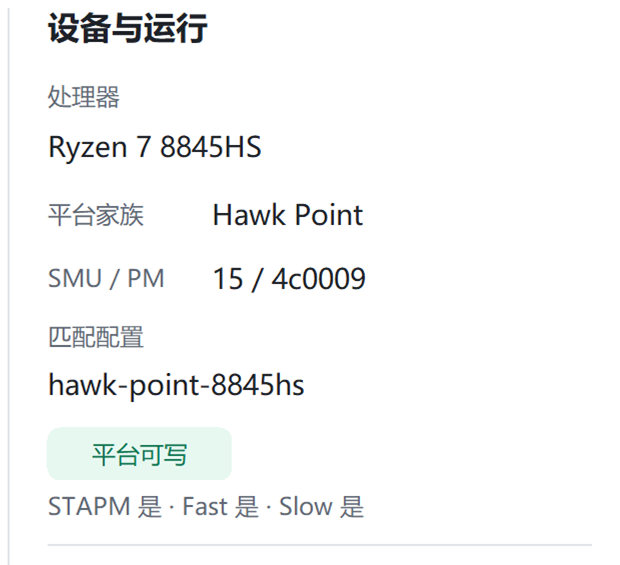
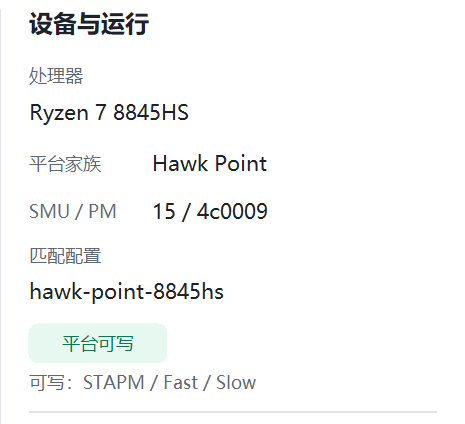
docs: 1.0.28 门禁、部署与 v9 实机截图

diff --git a/docs/DEV_STATUS.md b/docs/DEV_STATUS.md
@@ -21,7 +21,34 @@ not authoritative.
 
 ## Latest Maintenance Milestone
 
-2026-11-14 (tray unlock, real-UI promo v8, and 8 W night setting):
+2026-11-14 (1.0.28-native shipped to the stable-local deployment):
+
+- Added the tray-menu write gate: `写入解锁…` opens the same consent dialog as
+  the header lock, `写入已解锁` is checked while writes are enabled, and
+  selecting it again relocks and restarts the worker read-only.
+- Replaced the awkward advanced-panel capability sentence
+  `STAPM 是 · Fast 是 · Slow 是` with `可写：STAPM / Fast / Slow` (or the
+  subset actually supported), and added a unit test covering full, partial,
+  and unsupported field sets.
+- Verified 24 library tests, 23 main tests, and Clippy with `-D warnings`.
+  The full release gate passed: clean package, shell integration, worker-hang
+  recovery, no-change battery policy, 100/125/150% DPI, 1366x768 at 200%
+  work area, maximize-scroll regression, and byte-identical reproducibility.
+- Package: `1.0.28`, 769,919 bytes, SHA256
[1 lines of base64/hex data omitted]
+  source commit `f64812e6fb873ef72df81e8b324f2172d51aa506`; gate evidence
+  `docs/evidence/packaging/v1.0.28-release-gate-2026-11-14.json`.
+- Promoted to `C:\RyzenAdj`. Previous stable
+  `1.0.27-native` is recoverable at
+  `C:\RyzenAdj.before-20261114-025845`; deployed GUI SHA256
[1 lines of base64/hex data omitted]
+  The desktop shortcut remains
+  `--simple-mode --max-target-watts 45`.
+- Fresh 1.0.28 launch on battery reports `8.00 / 8.00 / 8.00 W`, policy
+  enabled, write unlock persisted, presets `10 / 25 / 45 W`, and no firmware
+  clamp. The temporary night setting remains 8 W until 07:00.
+
+2026-11-14 (tray unlock, real-UI promo v9, and 8 W night setting):
 
 - Tray menu now exposes the same write gate as the header lock: `写入解锁…`
   opens the consent dialog and `写入已解锁` is checked while writes are
@@ -33,16 +60,16 @@ not authoritative.
   for policy-seeded captures, and uses a PowerShell 5.1-safe `UIntPtr` for
   the cleanup exit message. This lets the promo capture the real
   `10 W / 45 W` auto-policy state instead of a hand-built mock.
-- Promo v8 replaces the safety, auto-policy, and compatibility mock cards
-  with crops from the shipped 1.0.27 UI: the real consent dialog (checked
+- Promo v9 replaces the safety, auto-policy, and compatibility mock cards
+  with crops from the shipped 1.0.28 UI: the real consent dialog (checked
   state), the real advanced preset + policy panel (`10 / 25 / 45 W`,
   battery `10 W`, AC `45 W`, `已启用`), and the real device panel
-  (`Ryzen 7 8845HS`, `Hawk Point`, `平台可写`). The main preset scene still
-  uses the real recorded click demo. Final: 42.5 s, 1920x1080, 30 fps,
-  `4,411,500` bytes, SHA256
[1 lines of base64/hex data omitted]
+  (`Ryzen 7 8845HS`, `Hawk Point`, `可写：STAPM / Fast / Slow`). The main
+  preset scene still uses the real recorded click demo. Final: 42.5 s,
+  1920x1080, 30 fps, `4,426,857` bytes, SHA256
[1 lines of base64/hex data omitted]
   full decode PASS:
-  `artifacts/media/promo-html-v1/amd-mobile-power-promo-2026-11-14-v8.mp4`.
+  `artifacts/media/promo-html-v1/amd-mobile-power-promo-2026-11-14-v9.mp4`.
 - User requested an immediate night limit of `8 W` until 07:00. Hardware
   read-back at 2026-11-14 02:12 confirms `STAPM 8.00 W`, `PPT Fast 8.00 W`,
   `PPT Slow 8.00 W` on battery; the persisted policy has both battery and AC

diff --git a/docs/DEPLOYMENT.md b/docs/DEPLOYMENT.md
@@ -3,8 +3,18 @@
 ## Directory Roles
 
 - `D:\amd-mobile-power`: development repository and source of truth.
-- `C:\RyzenAdj`: current stable-local native deployment (`1.0.23-native`,
-  commit `2033052`, maximize scroll clamp and paging fixes).
+- `C:\RyzenAdj`: current stable-local native deployment (`1.0.28-native`,
+  commit `f64812e`, tray write gate and simplified writable-field wording).
+  Rollback for `1.0.27-native`: `C:\RyzenAdj.before-20261114-025845`.
+  `1.0.28` package SHA256:
[1 lines of base64/hex data omitted]
+  release gate:
+  `docs/evidence/packaging/v1.0.28-release-gate-2026-11-14.json`;
+  deployment evidence:
+  `docs/evidence/packaging/v1.0.28-native-deployment-2026-11-14.json`.
+  Live read-back after the fresh launch: battery `8/8/8 W`, policy enabled,
+  presets `10 / 25 / 45 W`, ceiling `45 W`.
+  Previous deployment history follows.
   `1.0.22-native` remains at `C:\RyzenAdj.before-20261113-024133`;
   `1.0.21-native` at `C:\RyzenAdj.before-20261113-012141`;
   `1.0.20-native` at `C:\RyzenAdj.before-20261113-004532`;

diff --git a/docs/ROADMAP.md b/docs/ROADMAP.md
@@ -30,6 +30,8 @@
 
 - [x] Migrate the current WinForms layout.
 - [x] Add tray menu, close-to-tray, and single-instance wake-up.
+- [x] Add in-app write unlock with a consent dialog and persisted state.
+- [x] Expose the same write unlock/relock flow from the tray menu.
 - [x] Show effective limits and firmware clamps.
 - [x] Add editable presets and profile-aware ranges.
 - [x] Add worker connection state and automatic restart after conflicts clear.
